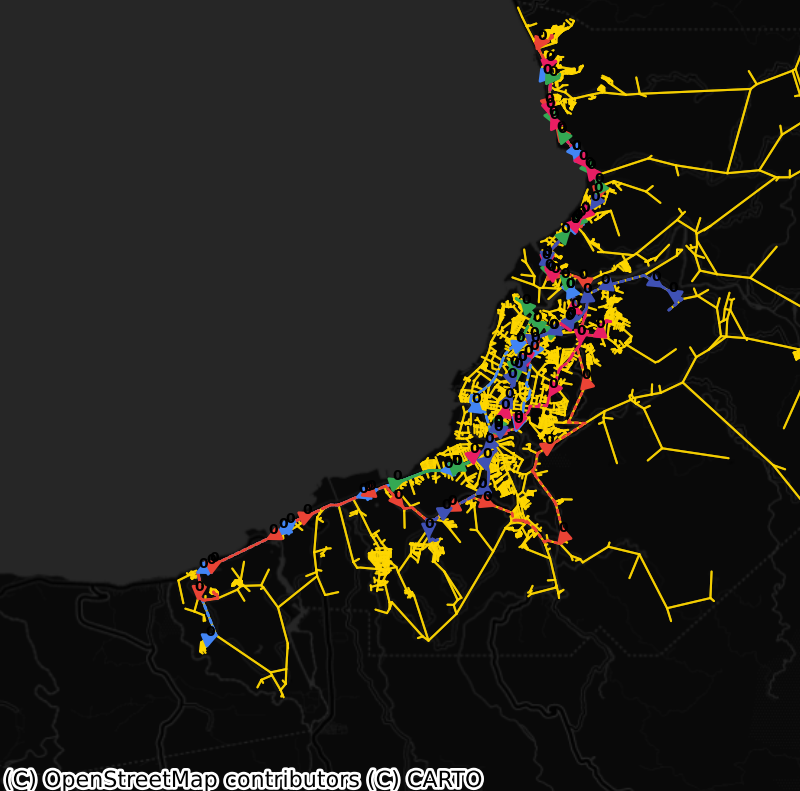
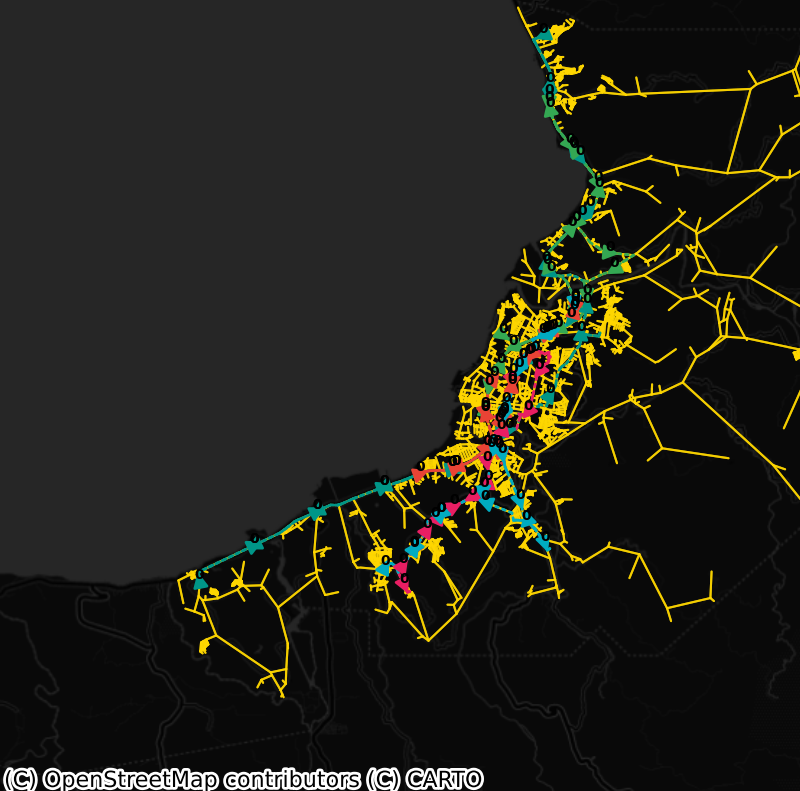
eval: Test Value Distribution of Mohring Fleet Allocation Array

Changed region(s): [[0.4375, 0.0303, 0.875, 0.7585], [0.2812, 0.6372, 0.4375, 0.6979], [0.2188, 0.6979, 0.2812, 0.8192]]

diff --git a/utils/jeep_system.py b/utils/jeep_system.py
@@ -5,7 +5,7 @@ Public API:
   coordinates jeep movement and passenger boarding logic.
 - add_passenger() injects a passenger into the system.
 - update() advances passengers and jeeps, then resolves boarding and alighting.
-- FleetAllocator calculates theoretical fleet distributions for system initialization.
+- FleetAllocator calculates theoretical fleet distributions and evaluates them.
 
 Internal API:
 - _space_jeeps_equidistantly() distributes jeeps across each route at startup.
@@ -59,6 +59,42 @@ class FleetAllocator:
             
         allocation[routes[-1]] = max(1, remaining)
         return allocation
+
+    @staticmethod
+    def evaluate_allocation(allocation: dict[Route, int], pheromones: Any) -> dict[Route, dict]:
+        """Calculates operator efficiency and passenger wait time metrics."""
+        total_fleet = sum(allocation.values())
+        if total_fleet == 0: return {}
+        
+        total_tau = sum(pheromones.tau.values()) if pheromones.tau else 1.0
+        if total_tau == 0: total_tau = 1.0
+        
+        report = {}
+        for route, count in allocation.items():
+            tau_sum = sum(pheromones.tau.get(e, 0) for e in route.path)
+            length_sum = sum(e.getLength() for e in route.path)
+            
+            load_factor = tau_sum / count if count > 0 else float('inf')
+            headway = length_sum / count if count > 0 else float('inf')
+            
+            route_demand_share = tau_sum / total_tau
+            route_fleet_share = count / total_fleet
+            
+            # Handle routes with 0 demand to prevent division by zero in parity
+            if route_demand_share > 0:
+                parity = route_fleet_share / route_demand_share
+            else:
+                parity = float('inf') if count > 0 else 0.0
+            
+            report[route] = {
+                "jeeps": count,
+                "demand": tau_sum,
+                "length": length_sum,
+                "load_factor": load_factor,
+                "headway": headway,
+                "parity": parity
+            }
+        return report
 
 class JeepSystem:
     def __init__(

diff --git a/test.py b/test.py
@@ -1,7 +1,8 @@
 """test.py
 
 Phase D Initialization Diagnostic.
-Verifies the integrated Gen-0 OD routing and Mohring fleet allocation pipeline.
+Verifies the integrated Gen-0 OD routing, Mohring fleet allocation pipeline,
+and mathematical allocation metrics.
 """
 
 import yaml
@@ -24,7 +25,7 @@ def run_diagnostics():
     out_dir.mkdir(parents=True, exist_ok=True)
     
     print("="*60)
-    print(" BOOTING PHASE D: INTEGRATED GEN-0 DIAGNOSTIC")
+    print(" BOOTING PHASE D: ALLOCATION METRICS DIAGNOSTIC")
     print("="*60)
     
     config = load_config()
@@ -42,14 +43,23 @@ def run_diagnostics():
     
     jeeps = []
     for route, count in allocation.items():
-        print(f"    Route {sim.jeep_system.routes.index(route)}: Allocated {count} Jeeps")
         start_pos = (route.path[0].start.lat, route.path[0].start.lon)
         for _ in range(count):
             jeep = Jeep(route=route, currPos=start_pos, speed=0.0005)
             jeep.passenger_max = 16
             jeeps.append(jeep)
             
-    print("[*] Spacing Fleet Equidistantly...")
+    print("\n[*] Evaluating Allocation Metrics...")
+    report = FleetAllocator.evaluate_allocation(allocation, pheromones)
+    
+    print(f"{'Route':<8} | {'Jeeps':<6} | {'Demand':<8} | {'Load Factor':<12} | {'Headway Proxy':<14} | {'Parity'}")
+    print("-" * 70)
+    for route, metrics in report.items():
+        r_idx = sim.jeep_system.routes.index(route)
+        parity_str = f"{metrics['parity']:.2f}" if metrics['parity'] != float('inf') else "INF"
+        print(f"Route {r_idx:<2} | {metrics['jeeps']:<6} | {metrics['demand']:<8.0f} | {metrics['load_factor']:<12.2f} | {metrics['headway']:<14.4f} | {parity_str}")
+
+    print("\n[*] Spacing Fleet Equidistantly...")
     JeepSystem(jeeps=jeeps, routes=routes, equidistant_spawn=True)
 
     print("[*] Rendering Visual Proof...")